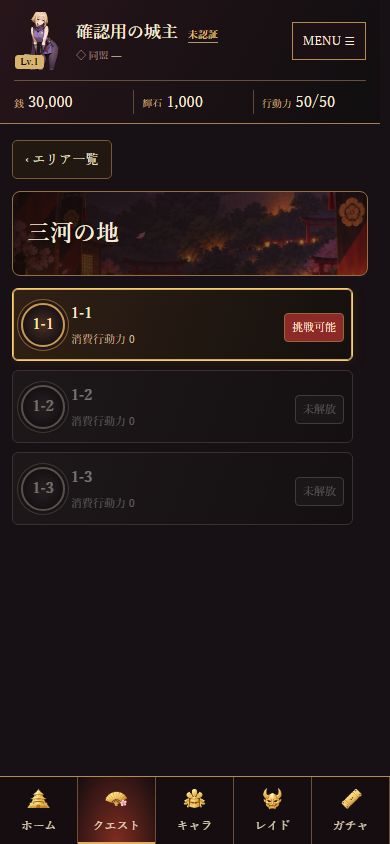
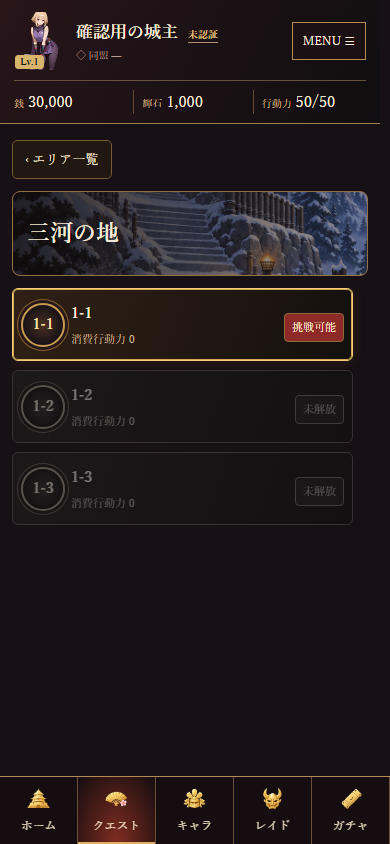
test(game04): record quest asset preview comparison

Changed region(s): [[0.0308, 0.2156, 0.9538, 0.3389]]

diff --git a/docs/design/quest/2026-09-22/ASSET_IMPORT_VERIFICATION_2026-09-23.md b/docs/design/quest/2026-09-22/ASSET_IMPORT_VERIFICATION_2026-09-23.md
@@ -25,6 +25,15 @@
 - 専用Previewへデプロイ後、390×844でエリア一覧、ステージ一覧、挑戦ダイアログ、出撃準備、キャラ詳細、攻略ヒント、報酬詳細を撮影し、承認モックと比較画像を保存する。
 - 報酬詳細は末尾までスクロールして確認する。
 
+### 今回の実測Preview
+
+- Preview: https://game04-8zk4s7mhn-kiyoshi-kitamura.vercel.app/qa/redesign?view=quest
+- Deployment: `dpl_Ca4S2yksgz1XZ8tyeQXc3VGFvY4Y`（Production昇格なし）
+- 実測比較: [quest-visual-comparison-20260923.png](./comparison/quest-visual-comparison-20260923.png)
+- 実測7画面: `01-area-list.png`、`02-stage-list.png`、`03-challenge.png`、`04-preparation.png`、`05-character-detail.png`、`06-hint-detail.png`、`07-reward-detail.png`。報酬末尾は `07-reward-detail-bottom.png`。
+- 画像はカード／バトル／ポートレート用途を分離し、枠・属性バッジ・Lv・HP・SP400・報酬アイコン・ダイアログ構図を目視確認した。
+- Preview上の取り込み対象216 URL（画像206、演出HTML10）をHEAD確認し、216/216 がHTTP 200。演出HTMLは `HomeEffect` のsandbox iframe経由で参照する。
+
 ## 残件
 
 - 明智光秀のバトル用素材はユーザー供給待ち。
